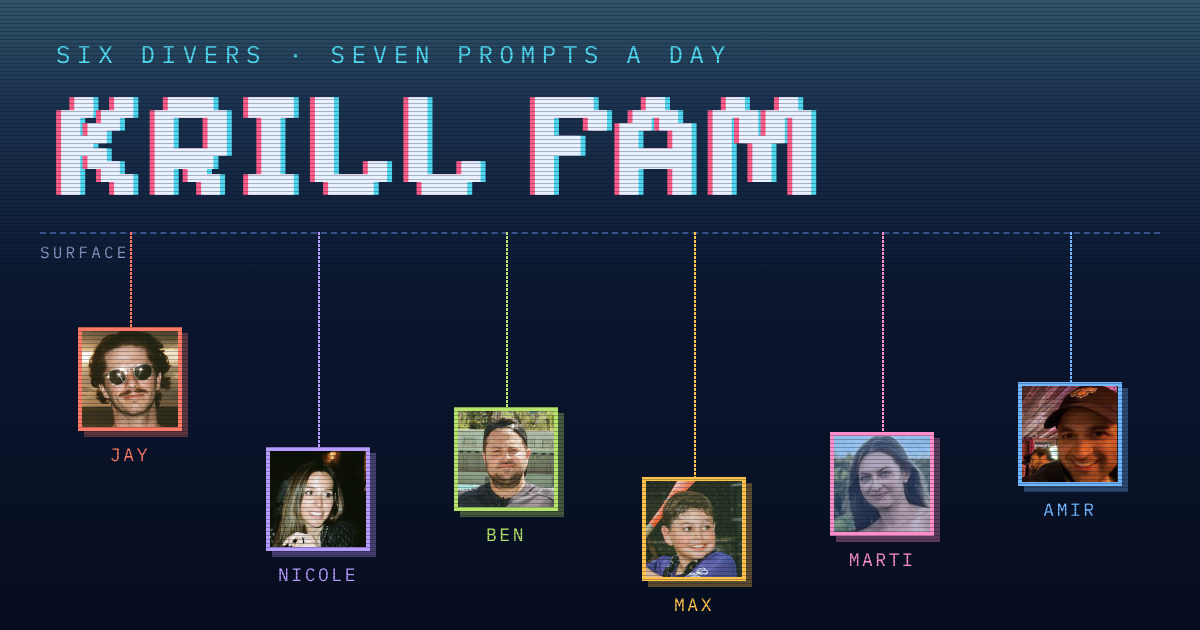
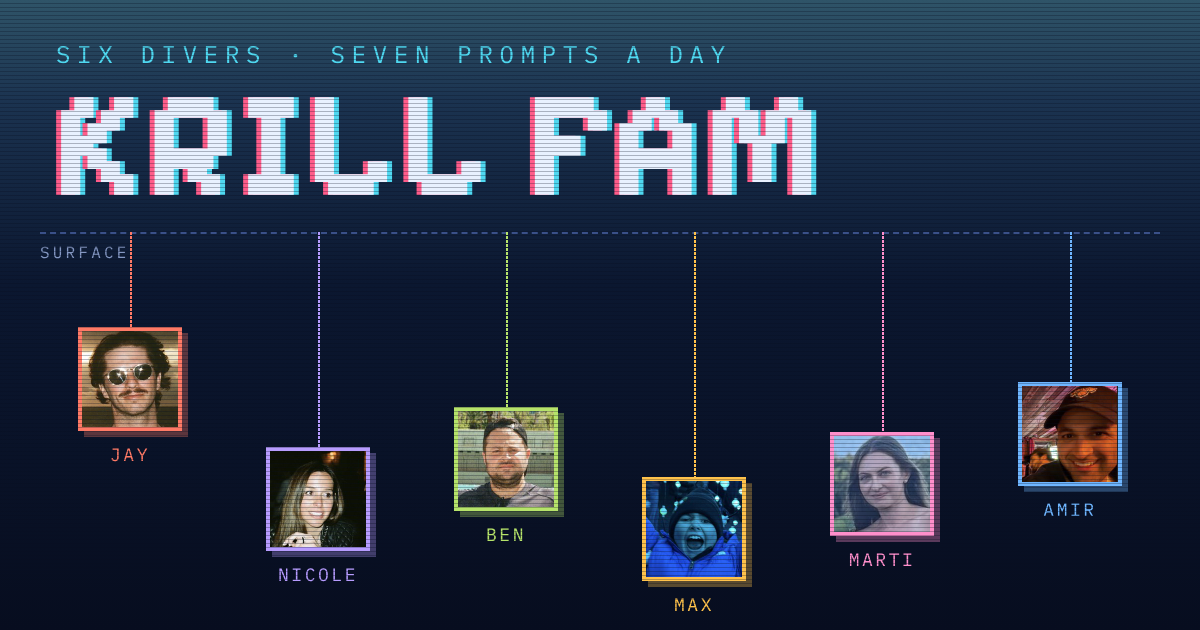
New photo for Max; re-render link preview
Claude-Session: https://claude.ai/code/session_01CWV6Sp5nDrstpFoqGFAjnp

Changed region(s): [[0.5242, 0.754, 0.6167, 0.9349]]

diff --git a/index.html b/index.html
@@ -196,7 +196,7 @@ td.num{white-space:nowrap}
 <body>
 <div id="app"></div>
 <div id="toast" role="status"></div>
-<script id="state" type="application/json">{"rev":5,"emo":{},"players":[{"id":"jay","name":"Jay","short":"Jay","e":"🦈","img":"faces/jay.jpg","c":"#FF7A66"},{"id":"nicole","name":"Nicole","short":"Nicole","e":"🐙","img":"faces/nicole.jpg","c":"#B79CFF"},{"id":"ben","name":"Ben","short":"Ben","e":"🐢","img":"faces/ben.jpg","c":"#B6E36A"},{"id":"max","name":"Max","short":"Max","e":"🐡","img":"faces/max.jpg","c":"#FFC24B"},{"id":"marti","name":"Marti","short":"Marti","e":"🦀","img":"faces/marti.jpg","c":"#FF8FCB"},{"id":"amir","name":"Amir","short":"Amir","e":"🐬","img":"faces/amir3.jpg","c":"#6FB6FF"}],"days":{"2026-11-11":{"n":119,"prompts":[{"t":"Name a country where at least 50% of people speak English","g":"places"},{"t":"Name a bodily function or biological process","g":"science"},{"t":"Name a one-word animal that starts with T","g":"nature"},{"t":"Name something that has a needle","g":"life"},{"t":"Name an original movie or show from Netflix, Prime Video, etc.","g":"screen"},{"t":"Name a named object in space that's bigger than Earth","g":"science"},{"t":"Name a character from Mario, Zelda, Donkey Kong, etc.","g":"screen"}],"scores":{"amir":{"q":[10,85,60,30,30,10,30]},"jay":{"q":[30,60,30,30,60,10,30]},"ben":{"q":[30,30,60,60,10,10,30]},"max":{"q":[10,0,85,30,0,60,30]},"nicole":{"q":[10,60,10,10,0,30,30]}}}}}</script>
+<script id="state" type="application/json">{"rev":6,"emo":{},"players":[{"id":"jay","name":"Jay","short":"Jay","e":"🦈","img":"faces/jay.jpg","c":"#FF7A66"},{"id":"nicole","name":"Nicole","short":"Nicole","e":"🐙","img":"faces/nicole.jpg","c":"#B79CFF"},{"id":"ben","name":"Ben","short":"Ben","e":"🐢","img":"faces/ben.jpg","c":"#B6E36A"},{"id":"max","name":"Max","short":"Max","e":"🐡","img":"faces/max2.jpg","c":"#FFC24B"},{"id":"marti","name":"Marti","short":"Marti","e":"🦀","img":"faces/marti.jpg","c":"#FF8FCB"},{"id":"amir","name":"Amir","short":"Amir","e":"🐬","img":"faces/amir3.jpg","c":"#6FB6FF"}],"days":{"2026-11-11":{"n":119,"prompts":[{"t":"Name a country where at least 50% of people speak English","g":"places"},{"t":"Name a bodily function or biological process","g":"science"},{"t":"Name a one-word animal that starts with T","g":"nature"},{"t":"Name something that has a needle","g":"life"},{"t":"Name an original movie or show from Netflix, Prime Video, etc.","g":"screen"},{"t":"Name a named object in space that's bigger than Earth","g":"science"},{"t":"Name a character from Mario, Zelda, Donkey Kong, etc.","g":"screen"}],"scores":{"amir":{"q":[10,85,60,30,30,10,30]},"jay":{"q":[30,60,30,30,60,10,30]},"ben":{"q":[30,30,60,60,10,10,30]},"max":{"q":[10,0,85,30,0,60,30]},"nicole":{"q":[10,60,10,10,0,30,30]}}}}}</script>
 <script id="js">
 (()=>{"use strict";
 const TIERS=[{p:0,n:'Miss',e:'⬛',c:'#5A6C96'},{p:10,n:'Plankton',e:'🫧',c:'#B9C9E4'},{p:15,n:'Too Clever',e:'',t:'TC',c:'#FF9F45'},{p:30,n:'Schooler',e:'🐟',c:'#4FD8F0'},{p:60,n:'Rare',e:'🦑',c:'#FF4D5E'},{p:85,n:'Deep Cut',e:'🏮',c:'#9B8CFF'},{p:100,n:'One in a Krillion',e:'🦐',t:'K★',c:'#FFD23F'}];
